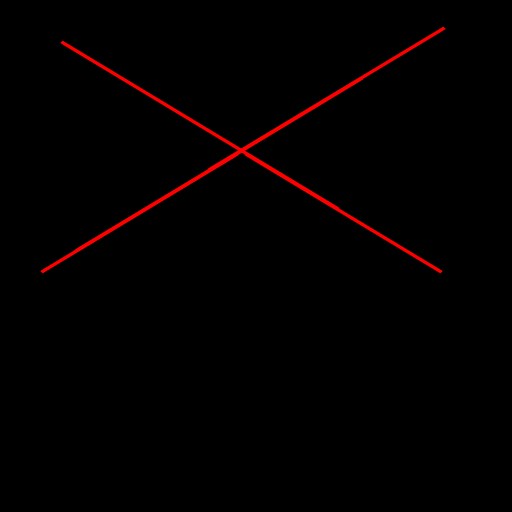
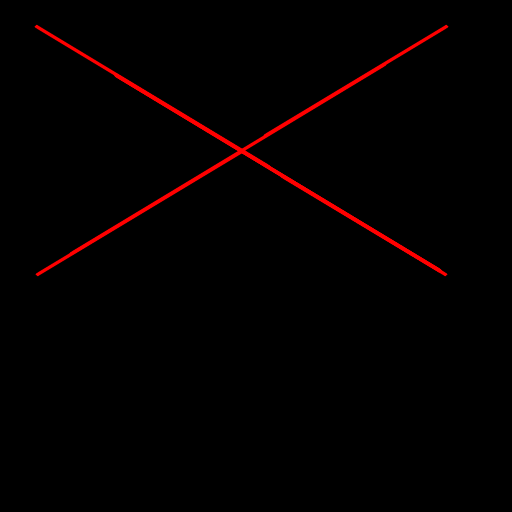
Got abstraction working and implemented.

diff --git a/src/drawImageSimulator.cpp b/src/drawImageSimulator.cpp
@@ -1,4 +1,6 @@
 #include <stdio.h>
+#include <opencv2/highgui/highgui.hpp>
+#include <opencv2/imgproc/imgproc.hpp>
 #include <stdlib.h>
 #include <iostream>
 #include <fstream>
@@ -8,26 +10,26 @@
 #include <string>
 #include <fcntl.h> 
 #include "../include/drawImageInterface.h"
-#include <opencv2/highgui/highgui.hpp>
-#include <opencv2/imgproc/imgproc.hpp>
+#include "../include/drawImageSimulator.h"
 #include "../include/vertex.h"
 #include "../include/line.h"
 
-#include "drawImageSimulator.h"
+
 
 using namespace std;
 //using namespace cv;
 
 
-const char * filename1 = "test.txt"; 
+const char * FILENAME = "test.txt"; 
 
-void drawImageSimulator::drawPic(Vertex vertex)
+void drawImageSimulator::drawPic(Vertex* vertex)
 {
 
-	int file;
-	file = open(filename1, O_RDWR); 
+	//int file;
 	cv::Mat img;
+	/*file = open(FILENAME, O_CREAT, O_RDWR); 
 	
+
 	if(file < 0){
 		cout << "Test file does not exist" << "\n";
 		exit(1);
@@ -46,7 +48,7 @@ void drawImageSimulator::drawPic(Vertex vertex)
 	std::size_t pos = coordinates.find("\n");
 	string cords = coordinates.substr(0,pos);
 	
-	/*ifstream filestream;
+	ifstream filestream;
 	filestream.open(filename1);
 	string lastLine;
 	filestream.seekg (0, System::io::SeekOrgin::beg); 
@@ -79,16 +81,16 @@ void drawImageSimulator::drawPic(Vertex vertex)
 	//receive the points from the vertex(model class) parameter
 	int points[2];
 	int points2[2];
-	vertex.getPoint(points);
-	vertex.getLine(0).getVertex.getPoints[points2];	
+	vertex->getPoint(points);
+	vertex->getLine(0)->getVertex()->getPoint(points2);	
 	
 	//store the points in the vector to be used later
 	vect[0] = points[0];
 	vect[1] = points[1];
 	vect[2] = points2[0];
 	vect[3] = points2[1];
-
-	int checksum = vect[0] + vect[1] + vect[2] + vect[3];
+	cout << "Points sent: = " << points[0] << "," << points[1] << "," << points2[0] << "," << points2[1] << "\n"; 
+	/*int checksum = vect[0] + vect[1] + vect[2] + vect[3];
 
 	ostringstream convert; 
 	convert << checksum; 
@@ -101,7 +103,7 @@ void drawImageSimulator::drawPic(Vertex vertex)
 	buf = check.c_str();
 
 	//cv::Mat robotImage; 
-	
+	*/
 	img = cv::imread("black.png", CV_LOAD_IMAGE_COLOR);
 	cv::line(img,cv::Point(vect[0],vect[1]),cv::Point(vect[2],vect[3]),cv::Scalar(0,0,255), 2,CV_AA);
 	
@@ -110,16 +112,16 @@ void drawImageSimulator::drawPic(Vertex vertex)
 		cv::imshow("Robot Simulated Image", img);
 	}
 
-	int w = write(file, buf, 256);
+	/*int w = write(file, buf, 256);
 
 	if(w<0){
 		cout << "Error writing to file" << "\n";
 	}
 	if(close(file)<0){
 		cout << "Error closing file" << "\n";
-	}
+	}*/
 
 	
-}	
+	
 
 }

diff --git a/src/draw.cpp b/src/draw.cpp
@@ -4,6 +4,7 @@
 #include "../include/line.h"
 #include "../include/RobotComm.h"
 #include "../include/drawLine.h"
+#include "../include/drawImageSimulator.h"
 #include <stdio.h>
 #include <stdlib.h>
 
@@ -16,17 +17,17 @@ const char * fileName = "/dev/ttyUSB0";//real
 void Draw(Vertex* v)//visit all other vertices associated with current vertex
 {
 	// open serial device for both reading and writing
-	/**/FILE *comm = fopen(fileName1, "r+");
+	/**/FILE *comm = fopen(fileName, "r+");
 
 	if(!comm){
 	printf("Couldn't open file: Switching ports...\n"); 
 	fileName = "/dev/ttyUSB1";
-	comm = fopen(fileName1,"r+");  //Opening device file(/dev/ttyUSB0or1) 
+	comm = fopen(fileName,"r+");  //Opening device file(/dev/ttyUSB0or1) 
 
 	if(!comm){
 		printf("Couldn't open file: Switching ports...\n");
 		fileName = "dev/ttyS0"; 
-		comm = fopen(fileName1,"r+");  //Opening device file(/dev/ttyUSB0or1) 	
+		comm = fopen(fileName,"r+");  //Opening device file(/dev/ttyUSB0or1) 	
 		if(!comm){
 			printf("Please make sure robot is connected.\n");
 		}
@@ -39,16 +40,20 @@ void Draw(Vertex* v)//visit all other vertices associated with current vertex
 	temp->getPoint(points1);//current vertex
 	temp->getLine(0)->getVertex()->getPoint(points2); //next vertex
 
+	drawImageSimulator sim;	
+
 	//Send the vertices coordinates to the robot through its port file
 	sendCoordinates(points1[0], points1[1], points2[0], points2[1], comm);//for file writing
-	//drawPic();//for simulated robots
-
+	
+	sim.drawPic(temp);//for simulated robots
+	
 	temp->setVisited(1);//vertex is being processed, used for debugging
 
 	//hold until the last line has been drawn
 	bool done  = false; 
 	int c = 0;  
 	while(!done){
+		break;
 		usleep(45000);//check if drawing is done every 1 second	
 		int response = -5;
 		c++;

diff --git a/tests/drawLineTest.cpp b/tests/drawLineTest.cpp
@@ -2,6 +2,7 @@
 #include<errno.h>
 #include <opencv2/highgui/highgui.hpp>
 #include "../include/drawImageSimulator.h"
+#include "../src/drawImageSimulator.cpp"
 #include "../include/vertex.h"
 #include "../include/line.h"
 
@@ -9,7 +10,7 @@
 using namespace std;
 using namespace cv;
 
-const char * filename1 = "test.txt";
+//const char * Filename1 = "test.txt";
 
 int main(){
 	printf("-----------------------------------------------\n");
@@ -18,18 +19,18 @@ int main(){
 
 	drawImageSimulator sim;	
 	
-	Vertex vertex1 = new Vertex(0,0);
-	Vertex vertex2 = new Vertex(50, 50);
+	Vertex* vertex1 = new Vertex(50,100);
+	Vertex* vertex2 = new Vertex(100, 250);
 	
-	Line line = new Line(vertex2);
-	vertex1.addLine(line);
+	Line* line = new Line(vertex2);
+	vertex1->addLine(line);
 		
 	//open the file
 	//FILE* file = open(filename1, O_RDWR);
 	 
 	
 	//Run it
-	sim.drawPic(vertex1); //FIX
+	sim.drawPic(vertex1); 
 	
 	waitKey(0);
 }

diff --git a/src/RobotComm.cpp b/src/RobotComm.cpp
@@ -42,6 +42,7 @@ void sendCoordinates(int x1, int y1, int x2, int y2, FILE * file){
 	fprintf(file, "%d,%d,%d,%d\n",x1,y1,x2,y2); //Writing to the file. Seperate coordinates using commas
 	cout << "Points sent: " << x1 << "," << y1 << "," << x2 << "," << y2 << "\n";
 	checkSum = x1+y1+y2+x2; 
+	fprintf(file, "DONE(%i)\n",checkSum);
 	fflush(file);//send the message 
 	
 }
@@ -90,7 +91,7 @@ int receiveACKSerial(FILE * file){
 	check.append(checkint); 
 	check.append(")");
 
-
+	
 	//locate DONE(checksum) in the out put from robot
 	std::size_t pos = ack.find(check);
 	

diff --git a/include/drawImageInterface.h b/include/drawImageInterface.h
@@ -1,3 +1,7 @@
+#ifndef DRAWIMAGEINTERFACE_H
+#define DRAWIMAGEINTERFACE_H
+
+
 #include <stdio.h>
 #include "vertex.h"
 
@@ -5,7 +9,9 @@
 class drawImageInterface
 {
 	public:
-		virtual void drawPic(Vertex vertex) = 0;
+		virtual void drawPic(Vertex* vertex) = 0;
 	
 
-}
+};
+
+#endif //DRAWIMAGEINTERFACE_H

diff --git a/include/drawImageSimulator.h b/include/drawImageSimulator.h
@@ -7,7 +7,7 @@
 class drawImageSimulator: public drawImageInterface
 {
 public:
-	virtual void drawPic(Vertex vertex); //CHANGE PARAMETER
+	virtual void drawPic(Vertex* vertex); //CHANGE PARAMETER
 
 };
 
